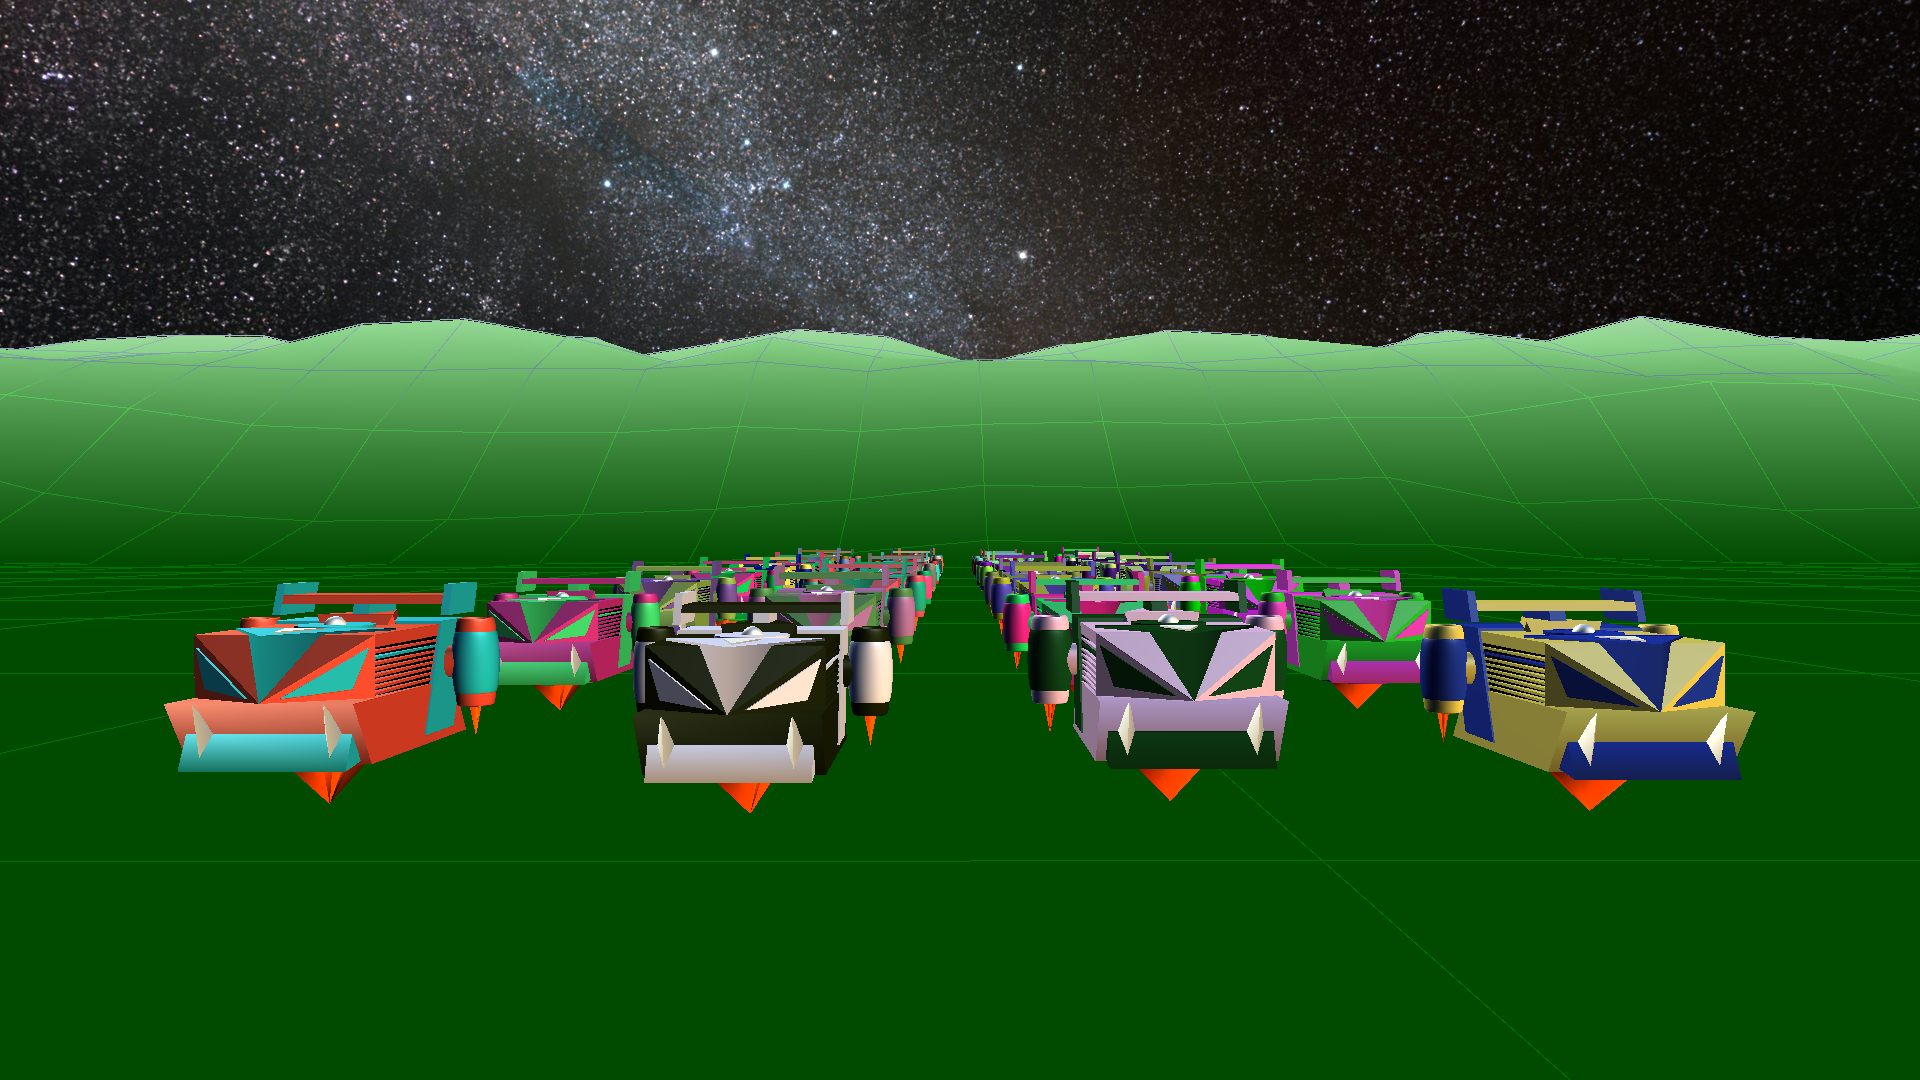
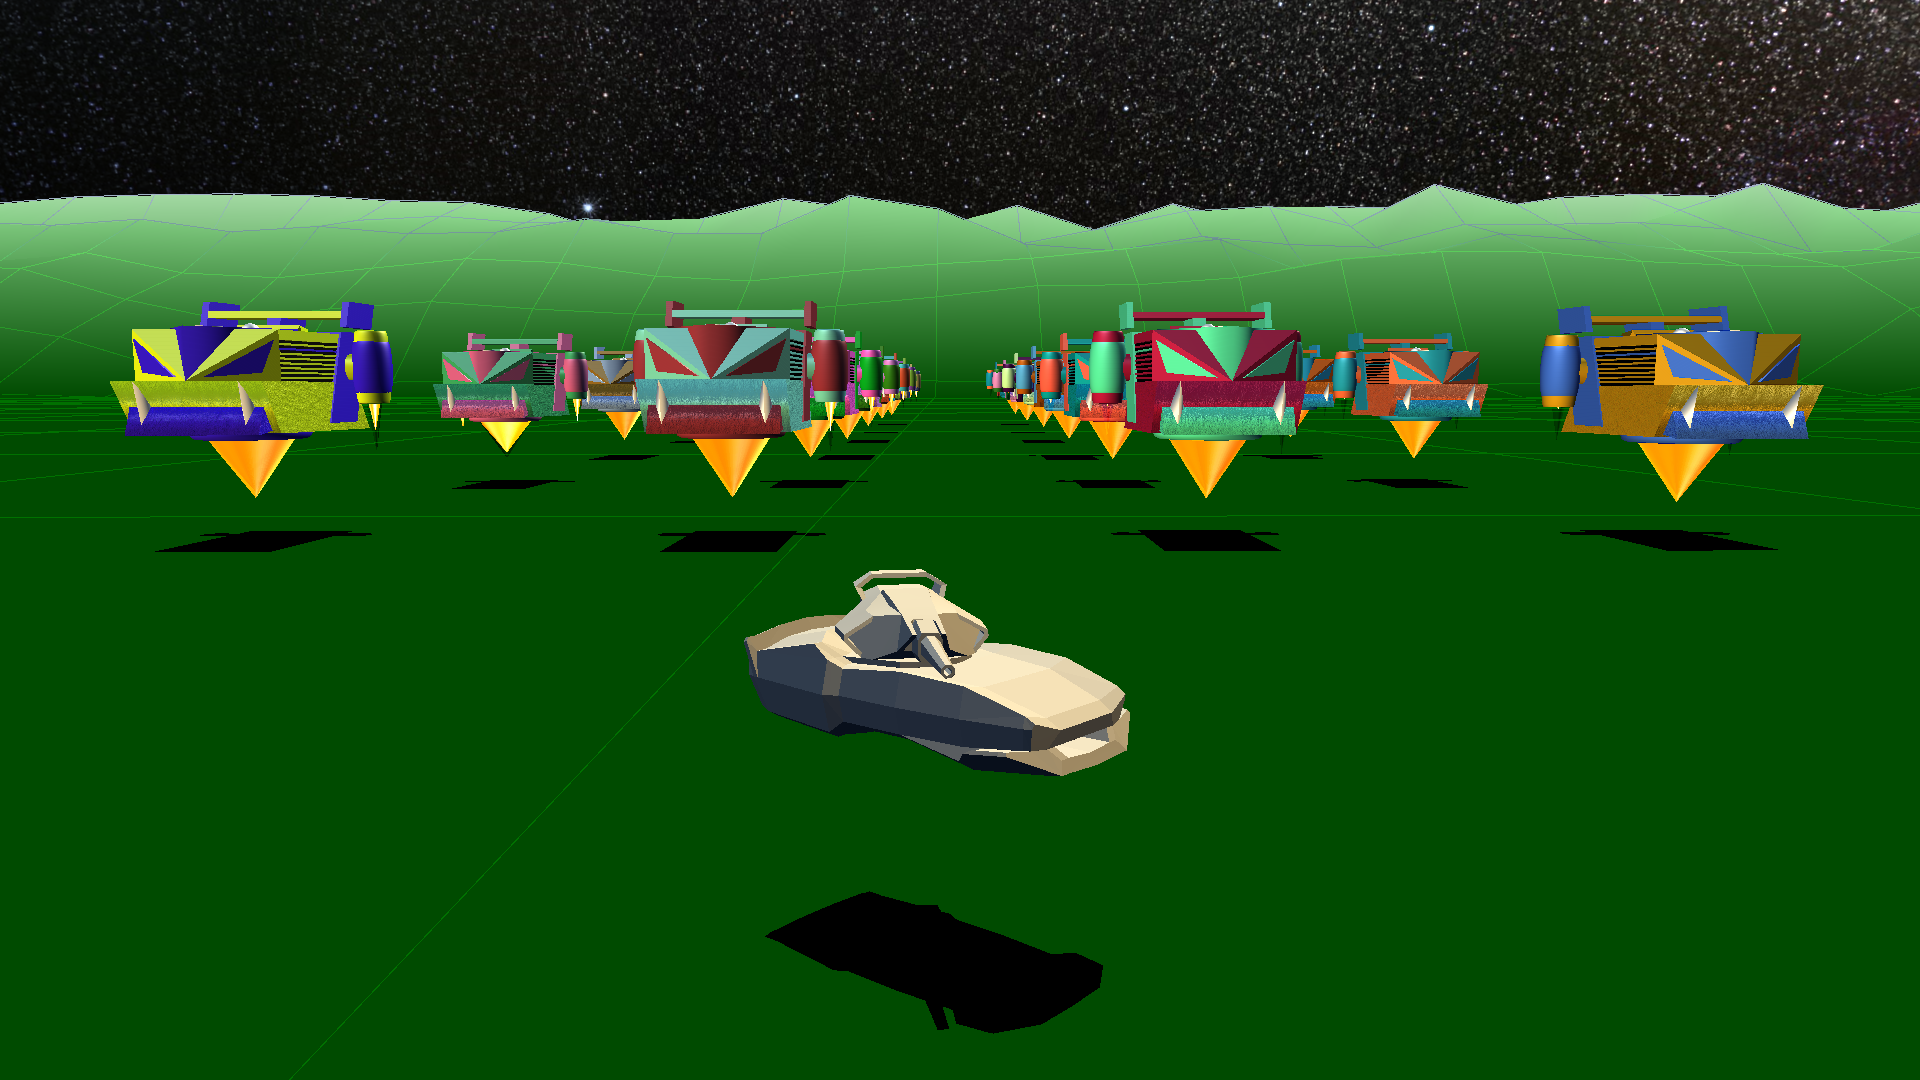
Update github page image

diff --git a/HoverTank1989/NPCController.cpp b/HoverTank1989/NPCController.cpp
@@ -494,16 +494,16 @@ void NPCController::LoadNPCs(Microsoft::WRL::ComPtr<ID3D11DeviceContext1> aConte
     const float xOrgVal = 70.0f;
     DirectX::SimpleMath::Vector3 pos = DirectX::SimpleMath::Vector3(xOrgVal, 11.0f, -40.0f);
     //DirectX::SimpleMath::Vector3 pos = DirectX::SimpleMath::Vector3(xOrgVal, 11.0f, 0.0f);
-    DirectX::SimpleMath::Vector3 heading = DirectX::SimpleMath::Vector3::UnitZ;
+    DirectX::SimpleMath::Vector3 heading = -DirectX::SimpleMath::Vector3::UnitX;
     const float low = 0.1f;
     const float high = 5.0f;
     //const float zPosOffSet = 12.0f;
-    const float zPosOffSet = 20.0f;
+    const float zPosOffSet = 25.0f;
     float baseHeight = 10.0f;
     //const int rows = 6;
     //const int columns = 4;
     const int rows = 1;
-    const int columns = 0;
+    const int columns = 4;
     for (int i = 0; i < columns; ++i)
     {
         for (int j = 0; j < rows; ++j)
@@ -720,7 +720,7 @@ void NPCController::UpdateNPCs(const DirectX::BoundingFrustum& aFrustum, const d
     }
 
     CheckNpcCollisions();
-    //CheckPlayerCollisions();
+    CheckPlayerCollisions();
     CheckNpcAvoidance();
 }
 
@@ -1021,7 +1021,7 @@ void NPCController::CheckPlayerCollisions()
 
                 m_npcVec[i]->m_prevImpact = newVx1;
                 //m_npcVec[j]->m_prevImpact = newVx2;
-                m_player->SetTestPostImppactVelocity(newVx2);
+                m_player->SetTestPostImpactVelocity(newVx2);
 
                 float x1a = p1localizedTo2Norm.Dot(testVelocityNorm1);
 

diff --git a/HoverTank1989/Vehicle.h b/HoverTank1989/Vehicle.h
@@ -352,7 +352,7 @@ public:
     void SetDebugData(std::shared_ptr<DebugData> aDebugPtr);
     void SetEnvironment(Environment* aEnviron);
     void SetModelController(std::shared_ptr<ModelController> aModelController);
-    void SetTestPostImppactVelocity(DirectX::SimpleMath::Vector3 aPostImpactVelocity);
+    void SetTestPostImpactVelocity(DirectX::SimpleMath::Vector3 aPostImpactVelocity);
     void SetTestCollisionVelocityUpdate(DirectX::SimpleMath::Vector3 aCollisionVelocityUpdate);
     void SetTestCollisionImpulseForce(Utility::ImpulseForce aCollisionImpulseForce);
     void SetTestVehicleCollisionTrue() { m_heli.isVehicleCollisionTrue = true; };

diff --git a/HoverTank1989/NPCVehicle.cpp b/HoverTank1989/NPCVehicle.cpp
@@ -1017,6 +1017,7 @@ void NPCVehicle::DrawNPC3(const DirectX::SimpleMath::Matrix aView, const DirectX
     DirectX::SimpleMath::Vector3 mainLightDirection1;
     DirectX::SimpleMath::Vector3 mainLightDirection2;
     m_environment->GetLightDirectionalVectors(mainLightDirection0, mainLightDirection1, mainLightDirection2);
+    
     aEffect->SetLightDirection(0, mainLightDirection0);
     aEffect->SetLightDirection(1, mainLightDirection1);
     aEffect->SetLightDirection(2, mainLightDirection2);

diff --git a/HoverTank1989/Vehicle.cpp b/HoverTank1989/Vehicle.cpp
@@ -2179,7 +2179,7 @@ void Vehicle::SetTestCollisionImpulseForce(Utility::ImpulseForce aCollisionImpul
     m_heli.testCollisionImpulseForce = aCollisionImpulseForce;
 }
 
-void Vehicle::SetTestPostImppactVelocity(DirectX::SimpleMath::Vector3 aPostImpactVelocity)
+void Vehicle::SetTestPostImpactVelocity(DirectX::SimpleMath::Vector3 aPostImpactVelocity)
 {
     m_heli.testPostImpactVelocity = aPostImpactVelocity;
 }
